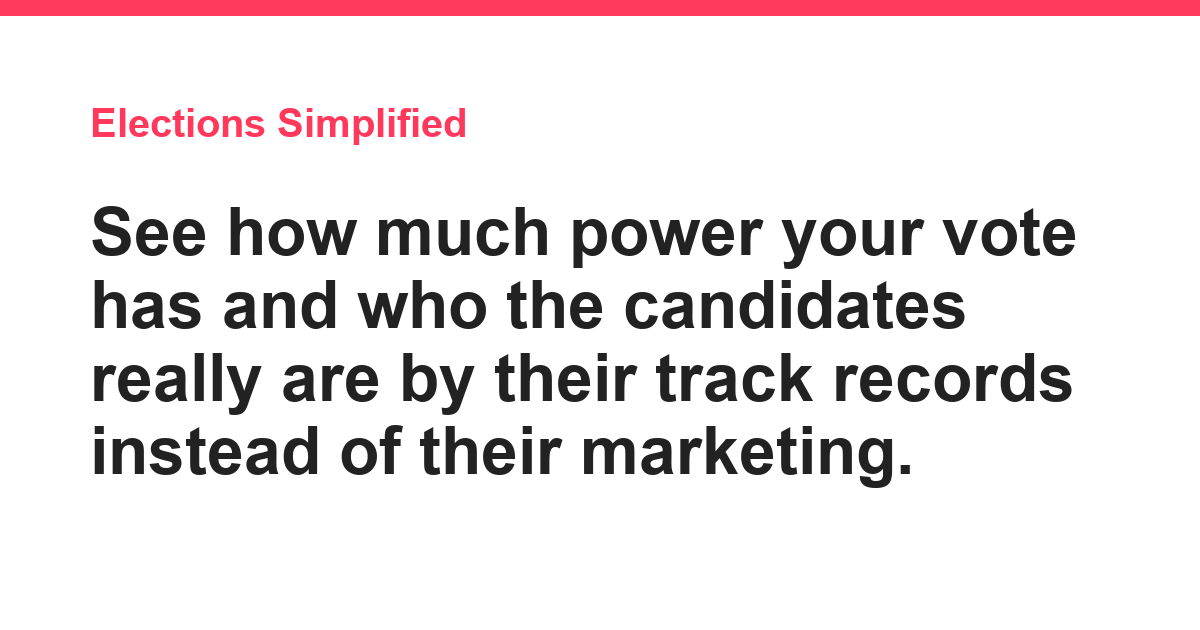
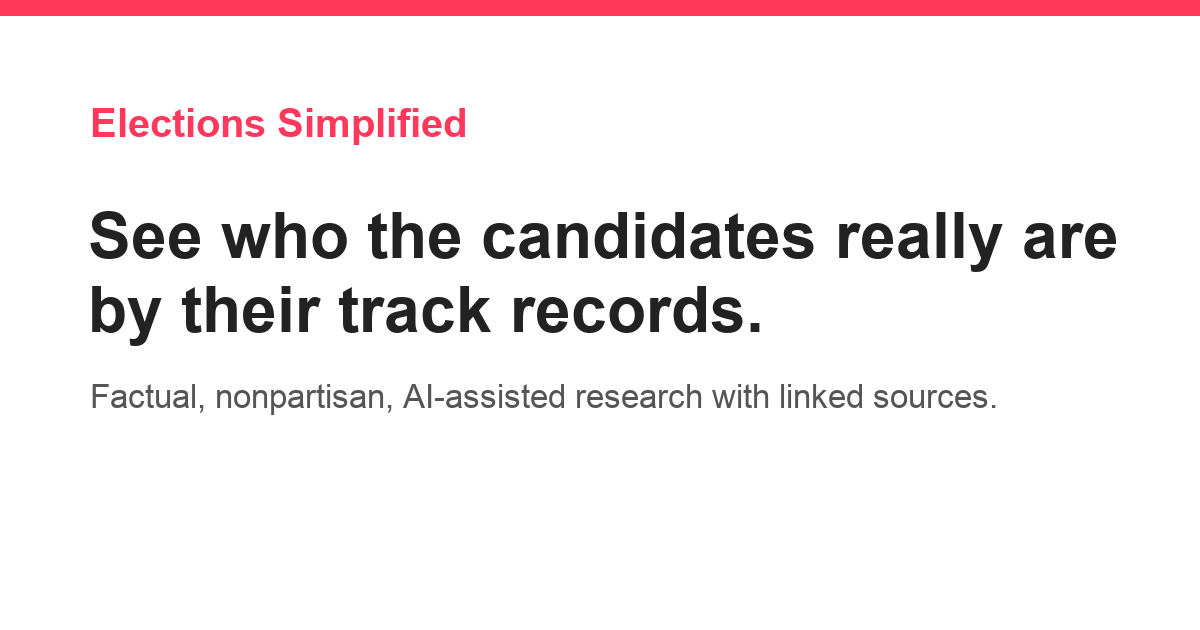
copy(seo): share-card image and alt text use the new headline and tagline

Changed region(s): [[0.0617, 0.3317, 0.9558, 0.7841]]

diff --git a/frontend/src/lib/pageMeta.ts b/frontend/src/lib/pageMeta.ts
@@ -20,7 +20,7 @@ import { APP_NAME } from "@voteapp/api-client";
 export const SITE_ORIGIN = "https://electionssimplified.com";
 
 const SHARE_IMAGE = `${SITE_ORIGIN}/og-card.png`;
-const SHARE_IMAGE_ALT = `${APP_NAME} — see how much power your vote has`;
+const SHARE_IMAGE_ALT = `${APP_NAME} — see who the candidates really are by their track records`;
 
 export const DEFAULT_DESCRIPTION =
   "See how much power your vote has and who the candidates really are by their track records.";
